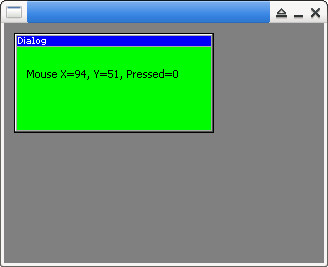
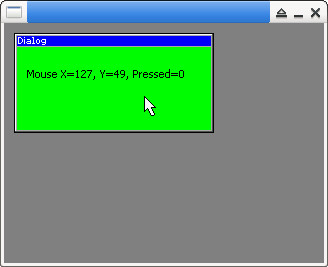
uC/GUI Refined.

Changed region(s): [[0.2134, 0.2397, 0.5488, 0.2996], [0.4268, 0.3596, 0.4878, 0.4494]]

diff --git a/program/ucgui_handle_mouseevent.htm b/program/ucgui_handle_mouseevent.htm
@@ -55,7 +55,10 @@ int main(int argc, char *argv[])
     GUI_Init();
     GUI_SetBkColor(GUI_GRAY);
     GUI_Clear();
-  
+
+    GUI_CURSOR_Show();
+    GUI_CURSOR_SetPosition(60, 60);
+
     GUI_ExecDialogBox(info, GUI_COUNTOF(info), WndProc, 0, 0, 0);
     return 0;
 }
